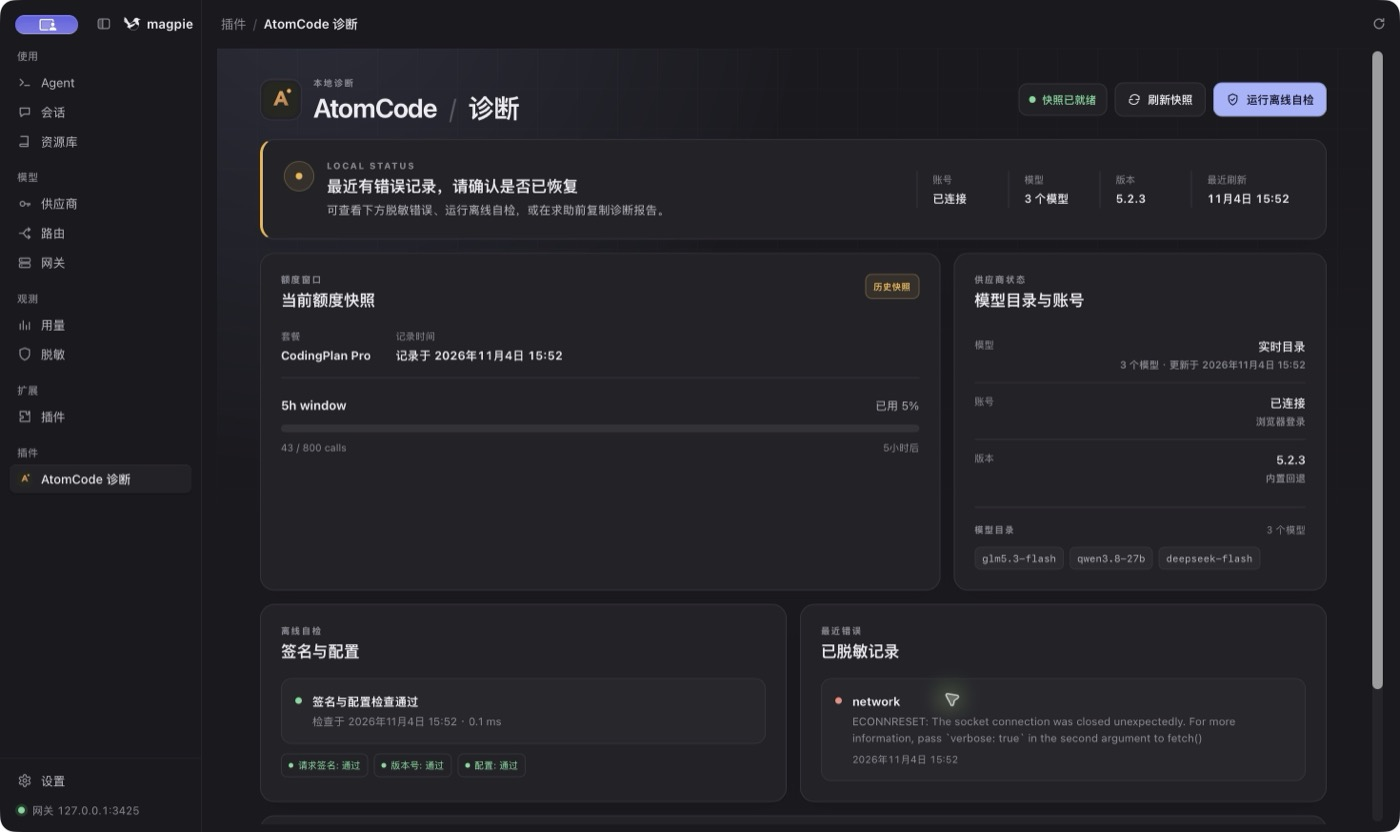
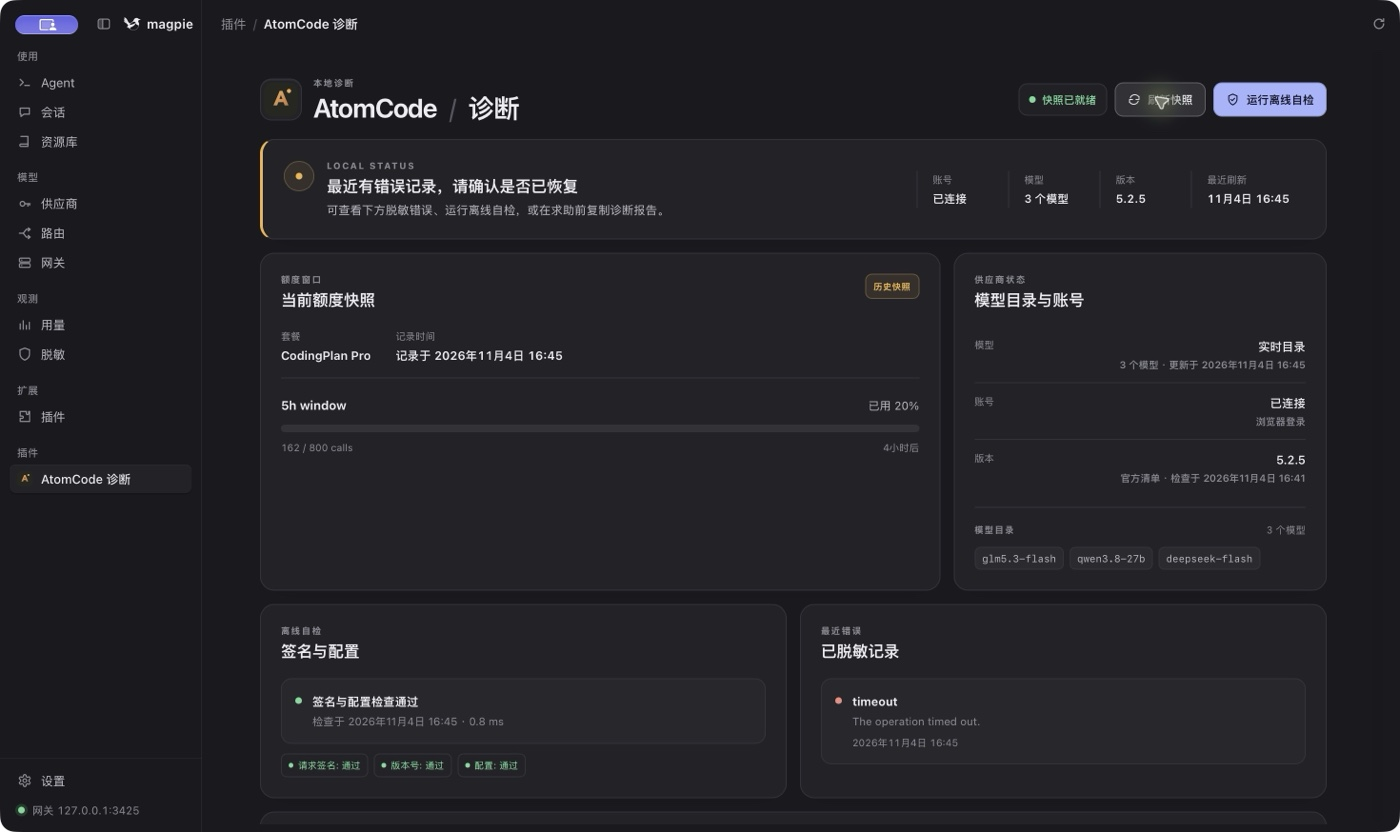
fix(atomcode): preserve auth.toml types on renewal

diff --git a/packages/atomcode/page/app.css b/packages/atomcode/page/app.css
@@ -63,28 +63,13 @@ body {
   min-height: 100vh;
   margin: 0;
   color: var(--fg);
-  background:
-    radial-gradient(circle at 8% -8%, color-mix(in srgb, var(--accent) 12%, transparent), transparent 34%),
-    var(--bg);
+  background: var(--bg);
   font: 13px/1.5 var(--font);
   -webkit-font-smoothing: antialiased;
 }
 
 [hidden] { display: none !important; }
 ::selection { color: var(--accent-fg); background: var(--accent); }
-
-.ambient {
-  position: fixed;
-  inset: 0;
-  z-index: -1;
-  pointer-events: none;
-  opacity: .4;
-  background-image:
-    linear-gradient(color-mix(in srgb, var(--fg) 3%, transparent) 1px, transparent 1px),
-    linear-gradient(90deg, color-mix(in srgb, var(--fg) 3%, transparent) 1px, transparent 1px);
-  background-size: 42px 42px;
-  mask-image: linear-gradient(to bottom, #000, transparent 72%);
-}
 
 .workspace {
   width: min(1120px, calc(100vw - 40px));
@@ -419,16 +404,16 @@ summary:focus-visible {
   width: 100%;
   height: 100%;
   border-radius: inherit;
-  background: linear-gradient(90deg, var(--accent), color-mix(in srgb, var(--accent) 72%, var(--amber)));
+  background: var(--accent);
   transform: scaleX(0);
   transform-origin: left center;
   transition: transform 240ms var(--ease-out);
 }
 .window[data-level="warn"] .progress-fill {
-  background: linear-gradient(90deg, var(--amber), color-mix(in srgb, var(--amber) 68%, var(--red)));
+  background: var(--amber);
 }
 .window[data-level="danger"] .progress-fill {
-  background: linear-gradient(90deg, color-mix(in srgb, var(--amber) 50%, var(--red)), var(--red));
+  background: var(--red);
 }
 .window-meta {
   color: var(--muted);
@@ -658,15 +643,10 @@ body[data-state="loading"] [data-skeleton]::after {
   position: absolute;
   inset: .18em 8% .18em 0;
   border-radius: 999px;
-  background: linear-gradient(
-    90deg,
-    color-mix(in srgb, var(--fg) 6%, transparent),
-    color-mix(in srgb, var(--fg) 13%, transparent),
-    color-mix(in srgb, var(--fg) 6%, transparent)
-  );
-  background-size: 200% 100%;
+  background: color-mix(in srgb, var(--fg) 10%, transparent);
   content: "";
-  animation: shimmer 1.2s ease-in-out infinite;
+  opacity: .55;
+  animation: skeleton-pulse 1.2s ease-in-out infinite;
 }
 
 body[data-state="ready"] .overview,
@@ -683,9 +663,8 @@ body[data-state="ready"] .technical { animation-delay: 50ms; }
   from { opacity: 0; transform: translateY(6px); }
   to { opacity: 1; transform: translateY(0); }
 }
-@keyframes shimmer {
-  from { background-position: 100% 0; }
-  to { background-position: -100% 0; }
+@keyframes skeleton-pulse {
+  50% { opacity: .9; }
 }
 @keyframes breathe {
   50% { opacity: .35; }

diff --git a/packages/atomcode/page/diagnostics.html b/packages/atomcode/page/diagnostics.html
@@ -9,7 +9,6 @@
   <link rel="stylesheet" href="./app.css">
 </head>
 <body data-app="starting" data-state="loading">
-  <div class="ambient" aria-hidden="true"></div>
   <main class="workspace">
     <header class="topbar">
       <div class="brand">

diff --git a/README.md b/README.md
@@ -13,8 +13,8 @@ subscription and makes its requests. The packages work in OpenCode and in
 |---|---|---|
 | [agnes](packages/agnes) | Agnes AI international (agnes-ai.com), with Chrome browser sign-in, live text models, plan usage and USD balance | `agnes` |
 | [agnes-code](packages/agnes-code) | Agnes AI's Agnes Code desktop, with the desktop's saved session (Windows) or a pasted access token: live models, daily credit check-in and points balance (unofficial) | `agnes-code` |
-| [atomcode](packages/atomcode) | AtomGit CodingPlan, with browser OAuth or the local AtomCode CLI's sign-in, signed requests, live models, quota windows and a read-only diagnostics page (unofficial) | `atomcode` |
 | [astudio](packages/astudio) | iFlytek's AStudio (科大讯飞 Astron Studio desktop), with the desktop's saved credentials or a pasted model token: live model catalog, daily login-points check-in and points balance (unofficial) | `astudio` |
+| [atomcode](packages/atomcode) | AtomGit CodingPlan, with browser OAuth or the local AtomCode CLI's sign-in, signed requests, live models, quota windows and a read-only diagnostics page (unofficial) | `atomcode` |
 | [catpaw](packages/catpaw) | Meituan's 妙手 CatPaw (ai.catpaw.meituan.com), with a browser web sign-in or the desktop client's saved credentials | `catpaw` |
 | [cline](packages/cline) | Cline (cline.bot): usage-billed models, ClinePass's and Cline's free ones, with Cline's device sign-in or an API key | `cline` |
 | [codearts](packages/codearts) | Huawei Cloud CodeArts (码道) coding plans (Trial, personal and enterprise credits), with Huawei Cloud OAuth sign-in (unofficial) | `codearts` |

diff --git a/packages/atomcode/README.zh-CN.md b/packages/atomcode/README.zh-CN.md
@@ -77,6 +77,9 @@ magpie plugin login atomcode 2   # 复用本机 AtomCode CLI 登录
   绝对路径或 `~/...`；相对路径与 `~其他用户` 会被拒绝。
 - 该文件是 CLI 与插件共享状态。如果本机登录切换了账号，需要重新登录 magpie，
   避免用一个账号的 `uid` 给另一个账号的 access token 签名。
+- 官方 CLI 使用 `auth-refresh.lock` 串行化续期；本插件不持有同款 Rust `fs2`
+  文件锁。如果双方在同一时刻续期且 broker 轮换了 refresh token，竞争失败的
+  一方需要重新登录。
 - 签到：magpie 设置 → 插件里的签到开关（「每天让 ATOMCODE 插件给每个已登录的账号签到一次」）。即使不开，套餐到期后额度/目录读取时也会自动补领（30 分钟冷却）。
 - 套餐名额：Lite 限量 1000 人/日；Pro 体验版每日 10:00 放 100 个名额。抢满时签到会失败并显示原因，明天再试即可。
 

diff --git a/packages/atomcode/README.md b/packages/atomcode/README.md
@@ -86,6 +86,10 @@ magpie plugin login atomcode 2   # reuse the official AtomCode CLI login
 - The local CLI file is shared state. If its account changes, sign in again so
   magpie never signs requests with one account's `uid` and another account's
   access token.
+- The official CLI serializes renewals with `auth-refresh.lock`. This plugin
+  does not take that Rust `fs2` lock. If both renew at the same instant and the
+  broker rotates the refresh token, the client that loses the race must sign in
+  again.
 - Check-in: the toggle in magpie's plugin settings ("has the ATOMCODE plugin sign in every signed-in account, daily"). Even when off, an expired plan is re-claimed automatically while reading quota/catalog (30-min cooldown).
 - Plan quotas: Lite 1000/day; Pro trial 100/day released at 10:00. When the daily pool is out, the check-in fails with the upstream message — try again tomorrow.
 

diff --git a/packages/atomcode/CHANGELOG.md b/packages/atomcode/CHANGELOG.md
@@ -45,6 +45,8 @@ Keep a Changelog and the project uses semantic versioning.
   `x-magpie-sign-in: kept`.
 - Quota rows are separated by explicit unit and window span, so a token window
   is not misreported as a call-count window.
+- The diagnostics workspace now uses flat backgrounds and solid status colors
+  to match Magpie's settings pages.
 
 ### Fixed
 
@@ -63,6 +65,9 @@ Keep a Changelog and the project uses semantic versioning.
   token-gated API preflights and requests. Each page response uses a fresh CSP
   script nonce. Host and token checks remain loopback-only, and CORS never uses
   a wildcard origin.
+- CLI-backed renewals preserve each existing TOML scalar's type, including the
+  official CLI's string-valued `user.id`, and keep unmanaged fields such as
+  `token_type`. A renewal can no longer make the official CLI reject auth.toml.
 
 ### Security
 
